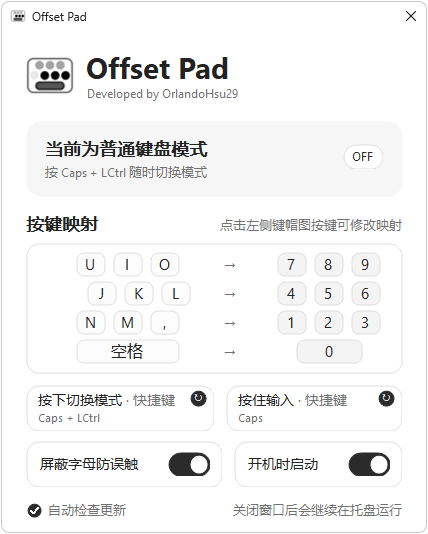
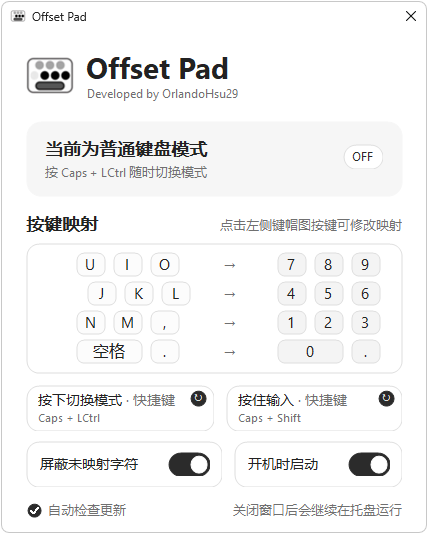
Updated README.md

diff --git a/README.md b/README.md
@@ -13,10 +13,11 @@ Offset Pad 把右手打字区临时变成近似九宫格的小键盘。左手按
 ## 快速开始
 
 1. 运行 Windows x64 安装包，安装并打开 Offset Pad。
-2. 点击状态卡片上的 `OFF` / `ON`，或按默认快捷键 **`LCtrl` + `Caps Lock`** 切换模式；按住 **`Caps Lock` + `Shift`** 并输入字符可临时使用小键盘，松开后恢复。短按 `Caps Lock` 会正常切换大小写锁定。
+2. 点击状态卡片上的 `OFF` / `ON`，或按默认快捷键 **`LCtrl` + `Caps Lock`** 切换模式；按住 **`Caps Lock` + `Shift`** 并输入字符可临时使用小键盘，松开后恢复。
     - 由于我电脑后台有很多效率工具，顺手的快捷键基本都已经被其他软件占用了，所以专门去适配了 **`Caps Lock`** 键来作为快捷键，将「`Caps Lock` + 功能键」作为快捷键不会被`Caps Lock`原有的功能干扰，短按 `Caps Lock` 仍保留原有的大小写锁定功能；按住 `Caps Lock` + `Shift` 输入数字，松手后恢复原模式。
 3. 点击“按键映射”中左侧的键帽，按字母、数字、常用符号或空格重新绑定；按  **`Esc`** 取消。已占用的键会与原键交换。
 4. 设置窗口可分别设置“切换模式”和“按住输入”：按住后暂时输入数字，松开即恢复此前模式；按住输入期间按 Backspace 只删除一个字符。录入时会区分**左右 `Ctrl`、`Alt`、`Shift`** 和 **`Win`**，并显示为 **`LCtrl`**、**`RCtrl`** 等；按 **`Delete`** 或 **`Backspace`** 可清除录入中的快捷键；托盘菜单可禁用两种快捷键，单独的模式开关仍可使用。快捷键需由 2–4 个按键组成，不支持单键触发。
+5. 小键盘模式下，顶部数字行会映射为对应符号，不需按`shift`；
 
 默认映射如下：
 
@@ -26,10 +27,10 @@ Offset Pad 把右手打字区临时变成近似九宫格的小键盘。左手按
 | `J` `K` `L` | `4` `5` `6` |
 | `N` `M` `,` | `1` `2` `3` |
 | 空格 | `0` |
-| `.`（可修改） | `.` |
+| `.` ( 即 `>` 键 ) | `.` |
 
 
-“屏蔽未映射字符”默认开启；小键盘模式下，映射键输出数字或小数点，顶部数字行输出符号；其他未映射的字符键会被拦截。方向键、回车和删除等功能键保持可用。普通模式仍正常输入数字。
+“屏蔽未映射字符”默认开启，开启时其他未映射的字符键会被拦截，方向键、回车和删除等功能键保持可用。
 
 关闭设置窗口后，程序仍在系统托盘运行。托盘图标为 `O` 时是普通键盘模式，为 `9` 时是数字小键盘模式；映射直接输入数字字符，不受 Num Lock 状态影响。
 
